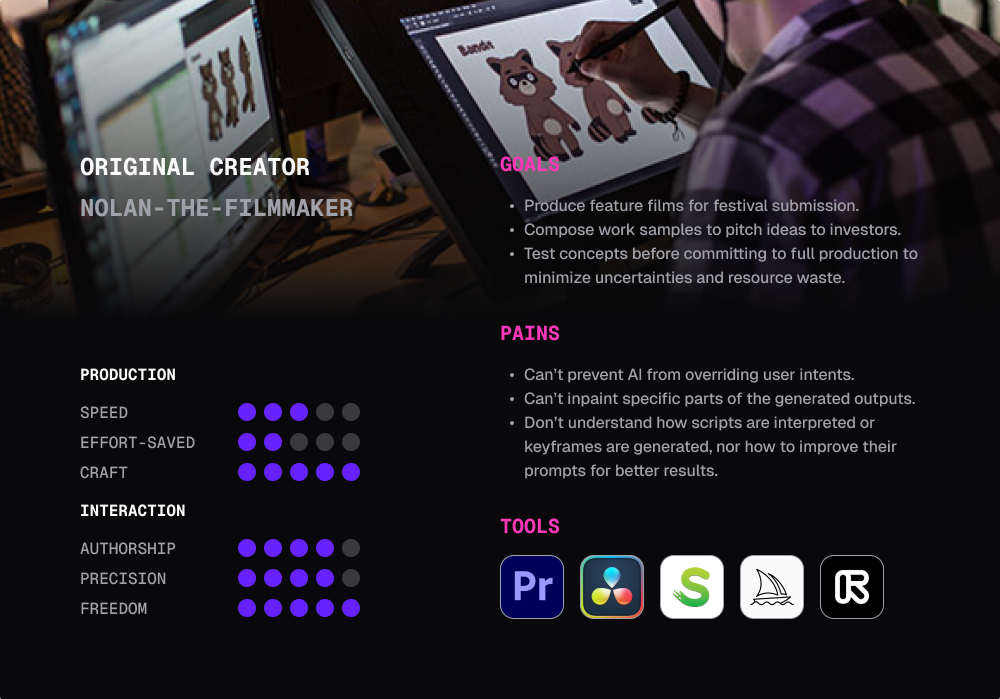
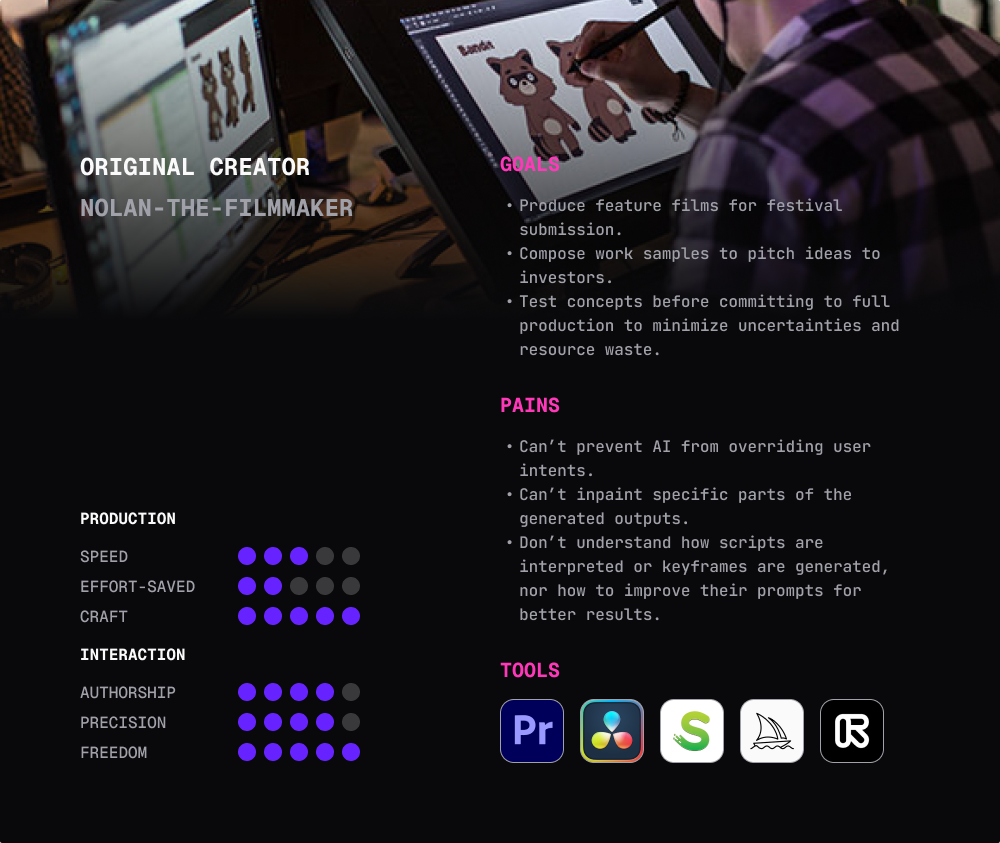
Add HTML positioning map with grid coords + line-art axes
Replace data-analysis-3-2.png with a live scatter: the 44 notes plotted on a
quadrant plane, each placed by inline --x/--y grid coords (origin at the axes
cross, one unit = half a note so gaps match the affinity board). Axes are the
design-system grey with line-art chevron arrowheads on the positive ends (top,
right), the shaft running into each head. Labels inset off the axes and within
the card padding so nothing collides. Refresh design-process and persona images.

Claude-Session: https://claude.ai/code/session_01MikppSM7uA4USoMtaEjy1Z

diff --git a/_projects/agent-opus.html b/_projects/agent-opus.html
@@ -91,6 +91,11 @@ tools:
                 <img src="{{ '/images/agent-opus/design-process.png' | relative_url }}" loading="lazy">
             </div>
         </figure>
+
+        <div class="sticky-legend col-start-10 col-span-1" aria-hidden="true">
+            <span class="black">Phase</span>
+            <span class="purple">Task</span>
+        </div>
     </div>
 </section>
 
@@ -682,7 +687,7 @@ tools:
                     <div class="sticky high"   data-theme="Workflow"      data-goal="Adaptability">Can I upload a script and work from there? It'd save me a lot of time.</div>
                     <div class="sticky high"   data-theme="Workflow"      data-goal="Adaptability">I'd like to skip the script editing phase when I already have a complete script.</div>
                     <div class="sticky medium" data-theme="Workflow"      data-goal="Adaptability">Adjusting the script parsing feels like a chore—there's just too much to fill in for blank shots.</div>
-                    <div class="sticky low"    data-theme="Workflow"      data-goal="Adaptability">The storyboard tweaking phrase is too much for me. There are so many options, kind of overwhelming.</div>
+                    <div class="sticky low"    data-theme="Workflow"      data-goal="Adaptability">The storyboard tweaking phase is too much for me. There are so many options, kind of overwhelming.</div>
                     <div class="sticky low"    data-theme="Workflow"      data-goal="Adaptability">I don't really get how to use the storyboard. Can I just get the output with one click?</div>
                     <div class="sticky low"    data-theme="Workflow"      data-goal="Adaptability">I just want to give the AI a topic summary, and have it produce a complete, polished video.</div>
                     <div class="sticky low"    data-theme="Workflow"      data-goal="Adaptability">I don't know which style is proper. Can AI automatically recommend global settings based on the theme of my stories?</div>
@@ -766,11 +771,66 @@ tools:
             <p>Mapping all sticky notes along the axes representing the two core tensions above revealed the natural clustering of user segments.</p>
         </div>
     
-        <figure class="col-start-4 col-span-6">
-            <div class="image-container">
-                <img src="{{ '/images/agent-opus/data-analysis-3-2.png' | relative_url }}" loading="lazy">
+        <div class="col-start-4 col-span-6">
+            <div class="affinity-scatter image-container">
+                <div class="axis-x"></div>
+                <div class="axis-y"></div>
+                <span class="axis-label top">Perceived quality</span>
+                <span class="axis-label bottom">Cost</span>
+                <span class="axis-label left">User agency</span>
+                <span class="axis-label right">Automation</span>
+                <div class="sticky medium" style="--x:-11;--y:9">Can I add tracks, like sound effects or background music, across multiple shots in the storyboard?</div>
+                <div class="sticky high" style="--x:-9;--y:9">Can I sync audio tracks directly to the timeline with more precision?</div>
+                <div class="sticky high" style="--x:-7;--y:9">I'd love to save my custom character rigs and reuse them across projects. Right now, I have to rebuild them every time.</div>
+                <div class="sticky high" style="--x:-5;--y:9">Can we customize characters, costumes, and environments to reuse across frames?</div>
+                <div class="sticky high" style="--x:5;--y:9">Is it possible to generate video clips immediately in each shot to achieve more precise control?</div>
+                <div class="sticky high" style="--x:-11;--y:7">I want to reuse characters and environments across different scenes, but it's hard to keep them consistent. Can it help with that?</div>
+                <div class="sticky high" style="--x:-9;--y:7">Can I detach and change an asset locally in a scene?</div>
+                <div class="sticky high" style="--x:-7;--y:7">I need more granular control over keyframes and easing curves.</div>
+                <div class="sticky high" style="--x:-5;--y:7">Can I create and save my own animation presets, like a specific type of walk or run?</div>
+                <div class="sticky high" style="--x:-7;--y:5">I need a way to zoom in and out quickly to adjust individual frames. Right now, it's either too slow or too imprecise.</div>
+                <div class="sticky high" style="--x:-5;--y:5">I'd love AI to help with in-between frames, but it needs to respect the style I'm going for.</div>
+                <div class="sticky high" style="--x:-3;--y:5">I'd love a prompt-based script editing feature to give the AI more specific instructions.</div>
+                <div class="sticky low" style="--x:-1;--y:5">Is there a way to select specific text and edit it with AI?</div>
+                <div class="sticky high" style="--x:5;--y:5">Does the system generate sound effects or music that match the narrative?</div>
+                <div class="sticky medium" style="--x:-7;--y:3">Can I predefine some reusable assets before generating keyframes?</div>
+                <div class="sticky medium" style="--x:-5;--y:3">Is it possible to define my own style?</div>
+                <div class="sticky high" style="--x:-3;--y:3">I don't want to regenerate the whole prompt—just tweak a single sentence.</div>
+                <div class="sticky medium" style="--x:1;--y:3">Can I get a low-res preview of the video to check pacing and transitions before committing to a full render?</div>
+                <div class="sticky high" style="--x:3;--y:3">Is there a way to assign specific voices to characters or voiceovers?</div>
+                <div class="sticky medium" style="--x:-7;--y:1">Does it ensure that an asset stays consistent across multiple shots? If not, I don't want to modify those shots one by one.</div>
+                <div class="sticky high" style="--x:-3;--y:1">The modal window is too small to work with.</div>
+                <div class="sticky low" style="--x:-1;--y:1">Can I give AI instructions, like with GPT, to edit things for me?</div>
+                <div class="sticky high" style="--x:1;--y:1">Can I preview how changes to one shot affect the overall animation without rendering the whole thing?</div>
+                <div class="sticky medium" style="--x:3;--y:1">What if the video output isn't good? Do I have to spend hours and extra credits rendering it again and again?</div>
+                <div class="sticky medium" style="--x:1;--y:-1">I'd love to preview how the shots come together before generating the full video.</div>
+                <div class="sticky medium" style="--x:5;--y:-1">I might make grammar mistakes, so I need AI to proofread the text for me.</div>
+                <div class="sticky low" style="--x:7;--y:-1">My input might not be perfect for playwriting. Can AI help tweak it to make the story more engaging?</div>
+                <div class="sticky high" style="--x:-11;--y:-3">I'd like to skip the script editing phase when I already have a complete script.</div>
+                <div class="sticky high" style="--x:-9;--y:-3">Can I upload a script and work from there? It'd save me a lot of time.</div>
+                <div class="sticky low" style="--x:-1;--y:-3">It'd be awesome to save and reuse my own global settings as a template.</div>
+                <div class="sticky high" style="--x:1;--y:-3">It might make more sense to use standard industry terminology.</div>
+                <div class="sticky medium" style="--x:5;--y:-3">The editing options are confusing. What does polish even mean?</div>
+                <div class="sticky medium" style="--x:7;--y:-3">Adjusting the script parsing feels like a chore—there's just too much to fill in for blank shots.</div>
+                <div class="sticky low" style="--x:9;--y:-3">The storyboard tweaking phase is too much for me. There are so many options, kind of overwhelming.</div>
+                <div class="sticky low" style="--x:5;--y:-5">I don't know which style is proper. Can AI automatically recommend global settings based on the theme of my stories?</div>
+                <div class="sticky medium" style="--x:7;--y:-5">I forgot to define the global setting but it's pretty important. You should make it more conspicuous.</div>
+                <div class="sticky high" style="--x:1;--y:-7">How should I scroll to the next shot, horizontally or vertically?</div>
+                <div class="sticky low" style="--x:3;--y:-7">I can't tell the difference between these two chunks of text. What am I missing?</div>
+                <div class="sticky low" style="--x:5;--y:-7">It'd be helpful to have a glossary or explanation for technical terms.</div>
+                <div class="sticky low" style="--x:7;--y:-7">Some of the setting options use jargon I don't understand.</div>
+                <div class="sticky medium" style="--x:1;--y:-9">The thumbnail bar and the horizontal shot container don't line up in length. It's a bit confusing.</div>
+                <div class="sticky low" style="--x:3;--y:-9">Scrolling horizontally is tricky especially on the touch screen. Should I scroll to the right or downward?</div>
+                <div class="sticky low" style="--x:9;--y:-9">I just want to give the AI a topic summary, and have it produce a complete, polished video.</div>
+                <div class="sticky low" style="--x:11;--y:-9">I don't really get how to use the storyboard. Can I just get the output with one click?</div>
             </div>
-        </figure>
+        </div>
+
+        <div class="sticky-legend col-start-10 col-span-1" aria-hidden="true">
+            <span class="high">High</span>
+            <span class="medium">Medium</span>
+            <span class="low">Low</span>
+        </div>
     
         <div class="col-start-4 col-span-6">
             <p>Sticky notes were distributed diagonally from the upper-left to lower-right quadrants, with high and low usage intensity clustering at opposite ends, demonstrating that:</p>

diff --git a/styles.css b/styles.css
@@ -880,6 +880,8 @@ img, video {
 .sticky.red,    .sticky-legend .red    { --sticky-color: #ffbdae; }
 .sticky.yellow, .sticky-legend .yellow { --sticky-color: #ffea79; }
 .sticky.purple, .sticky-legend .purple { --sticky-color: #d9b8ff; }
+.sticky.black,  .sticky-legend .black  { --sticky-color: #111111; }
+.sticky.black { color: #fff; }
 
 /* Usage-intensity palette — follows the project theme (also used by .sticky-legend chips) */
 .sticky.high,   .sticky-legend .high   { --sticky-color: color-mix(in srgb, var(--project-theme, #d3bdff) 85%, #fff); }
@@ -943,6 +945,72 @@ img, video {
 
 .affinity-morph .sticky {
     will-change: transform;
+}
+
+/* Positioning map — the same notes plotted on a 2-axis plane (static, no JS).
+   Place each note with inline --x / --y grid coords: origin at the axes cross,
+   x = left(−) → right(+), y = down(−) → up(+). One unit = half a note. */
+.affinity-scatter {
+    position: relative;
+    aspect-ratio: 1600 / 1452;
+    --ux: 26px;   /* one grid unit = half a note slot (52px), so two adjacent */
+    --uy: 26px;   /* notes match the 4px gap of the affinity board */
+}
+
+.affinity-scatter .axis-x,
+.affinity-scatter .axis-y {
+    position: absolute;
+    background: var(--tertiary);
+}
+
+.affinity-scatter .axis-x { left: var(--space-m); right: var(--space-m); top: 50%; height: 2px; transform: translateY(-50%); }
+.affinity-scatter .axis-y { top: var(--space-l); bottom: var(--space-l); left: 50%; width: 2px; transform: translateX(-50%); }
+
+/* Line-art arrowheads (open chevrons) on the positive ends only: top & right */
+.affinity-scatter .axis-x::after,
+.affinity-scatter .axis-y::before {
+    content: "";
+    position: absolute;
+    width: 8px;
+    height: 8px;
+    border: solid var(--tertiary);
+    border-width: 0;
+}
+
+.affinity-scatter .axis-x::after {   /* right end → points right, legs overlap the shaft */
+    right: 0; top: 50%;
+    border-top-width: 2px; border-right-width: 2px;
+    transform: translate(calc(50% - 6px), -50%) rotate(45deg);
+}
+
+.affinity-scatter .axis-y::before {  /* top end → points up, legs overlap the shaft */
+    top: 0; left: 50%;
+    border-top-width: 2px; border-left-width: 2px;
+    transform: translate(-50%, calc(-50% + 6px)) rotate(45deg);
+}
+
+.affinity-scatter .axis-label {
+    position: absolute;
+    font-family: var(--font-primary);
+    font-size: var(--font-size-xs);
+    line-height: var(--line-height-xs);
+    color: var(--tertiary);
+    text-transform: uppercase;
+    letter-spacing: 0.04em;
+    white-space: nowrap;
+}
+
+.affinity-scatter .axis-label.top    { top: var(--space-m);    left: 50%; transform: translateX(-50%); }
+.affinity-scatter .axis-label.bottom { bottom: var(--space-m); left: 50%; transform: translateX(-50%); }
+.affinity-scatter .axis-label.left   { left: var(--space-m);  top: 50%; transform: translateY(calc(-50% - 12px)); }
+.affinity-scatter .axis-label.right  { right: var(--space-m); top: 50%; transform: translateY(calc(-50% - 12px)); }
+
+/* Position by the note's centre while keeping the base .sticky size, margin
+   and rotation — offset the top-left corner by half a note (48px / 2). */
+.affinity-scatter .sticky {
+    position: absolute;
+    left: calc(50% + var(--x, 0) * var(--ux) - 24px);
+    top:  calc(50% - var(--y, 0) * var(--uy) - 24px);
 }
 
 /* Project cards — 2-up gallery (image, then title + description) */
